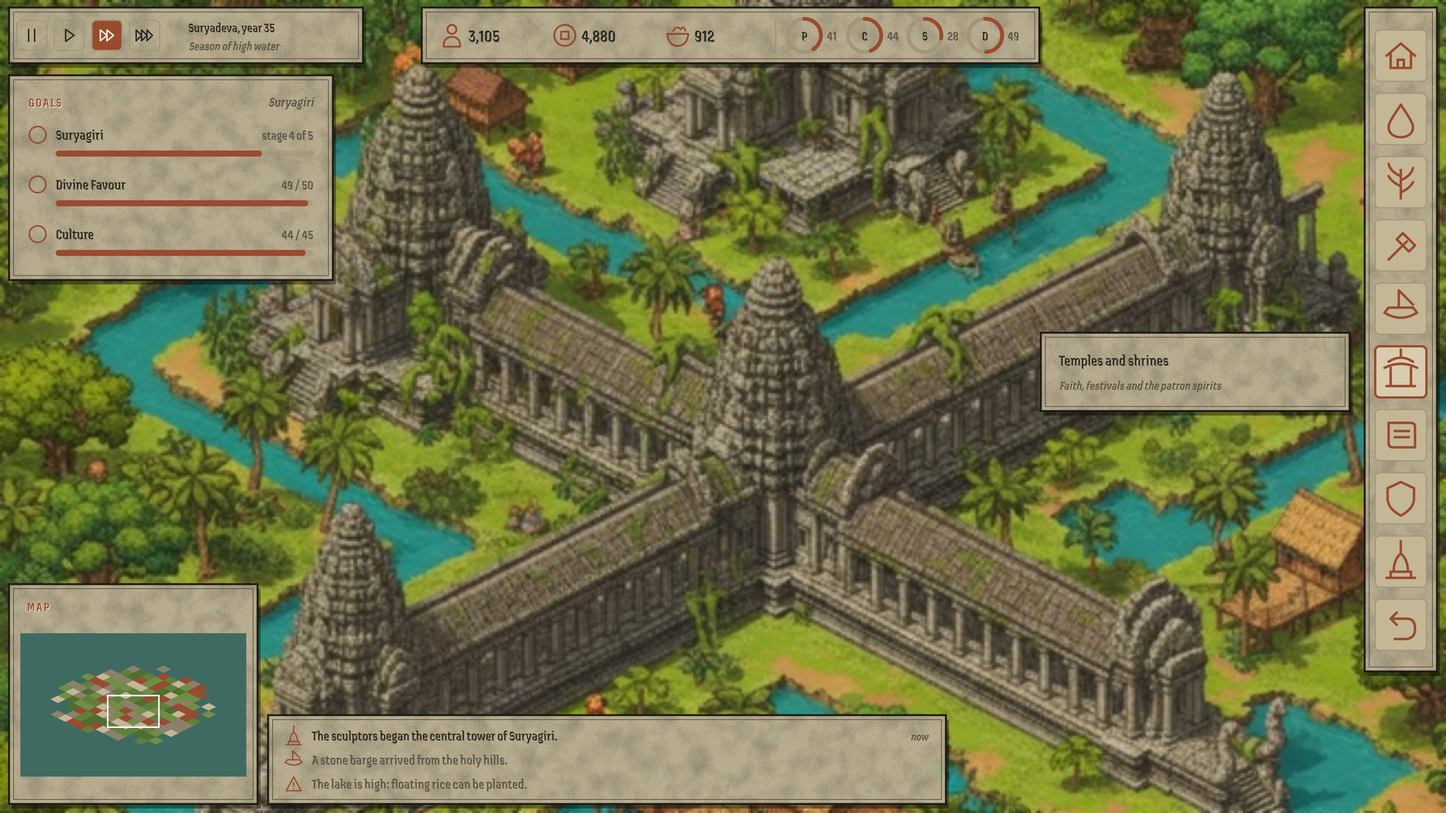
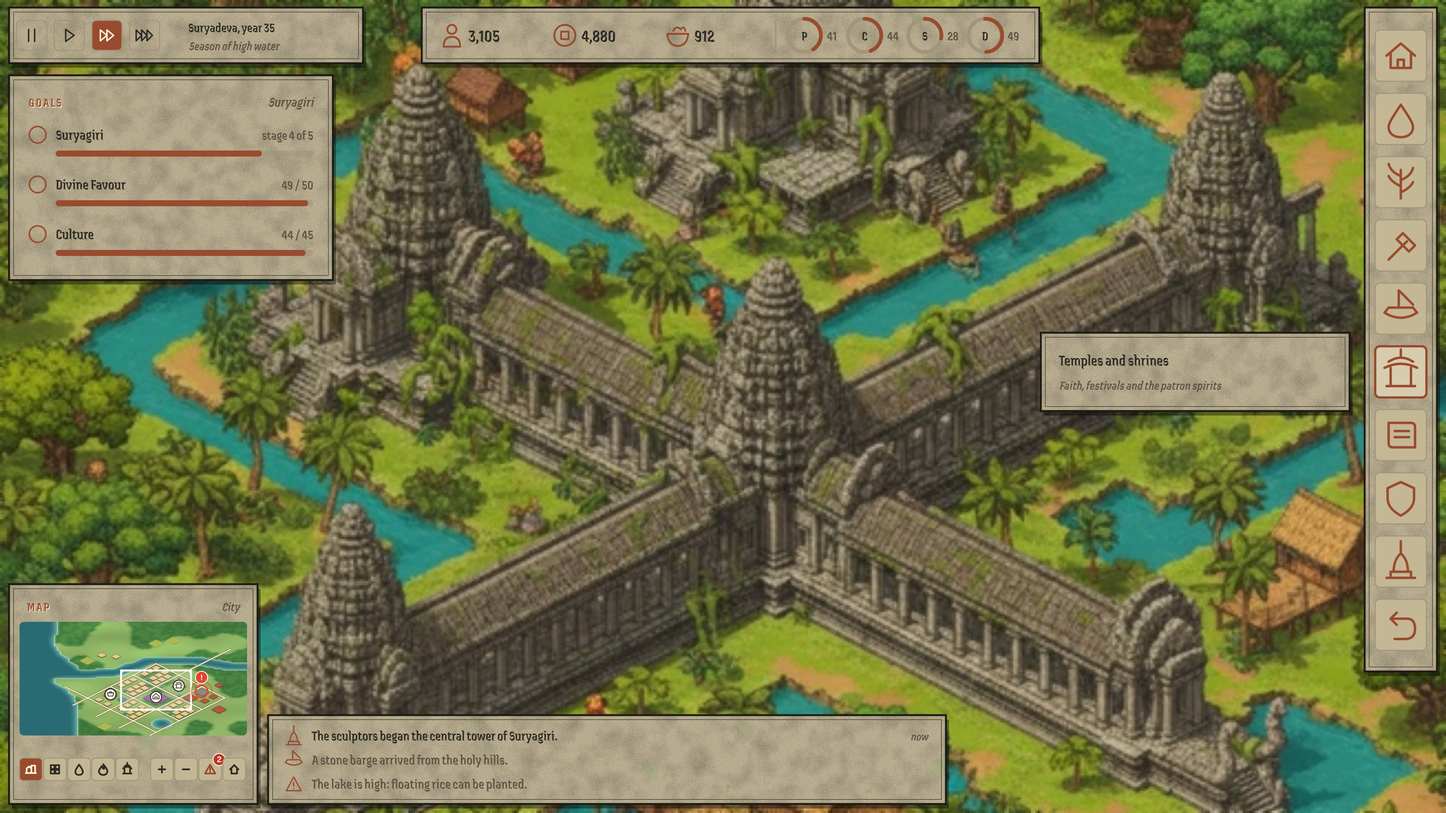
Mockups: the HUDs show the new minimap
Each realm's HUD now draws minimap concept A (the sample city from
minimap.py) in the realm's palette, with the lens and tool buttons,
instead of the old placeholder tiles. serve.py rebuilds the HUDs when
minimap.py changes.

Claude-Session: https://claude.ai/code/session_01E5PQdFiW8ubMzCiZxgcQDM

Changed region(s): [[0.0, 0.7444, 0.1875, 0.9616]]

diff --git a/docs/design/mockups/generator/minimap.py b/docs/design/mockups/generator/minimap.py
@@ -142,13 +142,14 @@ class Minimap:
     """Draws one concept into a rect: the diamond map in tile space under the
     isometric matrix, clipped to the playable rectangle."""
 
-    def __init__(self, defs):
+    def __init__(self, defs, prefix=""):
         self.defs = defs
+        self.prefix = prefix
         self.n = 0
 
     def nid(self, p):
         self.n += 1
-        return f"{p}{self.n}"
+        return f"{self.prefix}{p}{self.n}"
 
     def frame(self, x, y, w):
         """Map area at (x, y) with width w (height w / 2). Returns (open, close, to_screen)."""
@@ -178,21 +179,22 @@ class Minimap:
                     segs.append(f"M{i + .5},{j + .5}V{j + 1.5}")
         return "".join(segs)
 
-    def camera(self, to_screen, style):
+    def camera(self, to_screen, style, k=1.0):
         cx, cy = to_screen(48, 40)
-        w, h = 150, 84
+        w, h = 150 * k, 84 * k
+        t, sw = 14 * k, max(2.5, 4 * k)
         if style == "ink":
             return (f'<rect x="{f(cx - w / 2)}" y="{f(cy - h / 2)}" width="{w}" height="{h}" fill="none" stroke="#a8261c" stroke-width="3" stroke-dasharray="14 5"/>')
         return (f'<rect x="{f(cx - w / 2)}" y="{f(cy - h / 2)}" width="{w}" height="{h}" rx="5" fill="#ffffff" fill-opacity="0.12" stroke="#fffaf0" stroke-width="2.5"/>'
-                + "".join(f'<path d="M{f(px)},{f(py + dy * 14)} V{f(py)} H{f(px + dx * 14)}" fill="none" stroke="#fffaf0" stroke-width="4" stroke-linecap="round"/>'
+                + "".join(f'<path d="M{f(px)},{f(py + dy * t)} V{f(py)} H{f(px + dx * t)}" fill="none" stroke="#fffaf0" stroke-width="{f(sw)}" stroke-linecap="round"/>'
                           for px, py, dx, dy in [(cx - w / 2, cy - h / 2, 1, 1), (cx + w / 2, cy - h / 2, -1, 1), (cx - w / 2, cy + h / 2, 1, -1), (cx + w / 2, cy + h / 2, -1, -1)]))
 
-    def ping(self, to_screen, i, j, color="#e8432f"):
+    def ping(self, to_screen, i, j, color="#e8432f", k=1.0):
         x, y = to_screen(i, j)
-        return (f'<circle cx="{f(x)}" cy="{f(y)}" r="22" fill="none" stroke="{color}" stroke-width="2" opacity="0.45"/>'
-                f'<circle cx="{f(x)}" cy="{f(y)}" r="13" fill="none" stroke="{color}" stroke-width="3"/>'
-                f'<circle cx="{f(x)}" cy="{f(y - 30)}" r="13" fill="{color}" stroke="#fff" stroke-width="2"/>'
-                + T(x, y - 24.5, "!", "sans-serif", 17, "#fff", "middle", 800))
+        return (f'<circle cx="{f(x)}" cy="{f(y)}" r="{f(22 * k)}" fill="none" stroke="{color}" stroke-width="2" opacity="0.45"/>'
+                f'<circle cx="{f(x)}" cy="{f(y)}" r="{f(13 * k)}" fill="none" stroke="{color}" stroke-width="{f(max(2, 3 * k))}"/>'
+                f'<circle cx="{f(x)}" cy="{f(y - 30 * k)}" r="{f(13 * k)}" fill="{color}" stroke="#fff" stroke-width="{f(max(1.2, 2 * k))}"/>'
+                + T(x, y - 24.5 * k, "!", "sans-serif", f(17 * k), "#fff", "middle", 800))
 
     # ------------------------------------------------------------ concept 0: today
     def current(self, x, y, w):
@@ -215,8 +217,14 @@ class Minimap:
     # ------------------------------------------------------------ concept A: painted relief
     PAINT = ["#e7c98b", "#a9b85a", "#b8553f", "#5b8fc9", "#8d8a83", "#9a5aa8", "#e0a93a", "#6fbf7a"]
 
-    def painted(self, x, y, w, lens=None):
+    # Concept A's colours; a realm can override any of them (see screens.py's HUD).
+    PALETTE = dict(land_low="#a7bd72", land_high="#cdbb83", forest="#5d8c48", rocks="#a19584",
+                   shallow="#6db3c2", deep="#2f6f8c", foam="#f3f0dc", field="#b7c560", field_row="#8fa843")
+
+    def painted(self, x, y, w, lens=None, palette=None, k=1.0):
+        """Concept A. `k` scales the camera frame, pings and icons for a smaller widget."""
         c = CITY
+        pal = {**self.PALETTE, **(palette or {})}
         px = 8
         water = up(c["water"], px, 2.2)
         deep = up(c["water"], px, 9)
@@ -224,29 +232,29 @@ class Minimap:
         rocks = up(c["rocks"], px, 3)
         hgt = up(c["height"], px, 6)
         tex = up(np.random.default_rng(5).random((N, N)) > 0.5, px, 1.2)
-        land = mix(np.zeros(water.shape + (3,)) + hexrgb("#a7bd72"), "#cdbb83", np.clip((hgt - 0.35) * 1.6, 0, 1))
-        land = mix(land, "#5d8c48", np.clip(veg * 1.4, 0, 1) * (0.8 + 0.2 * tex))
-        land = mix(land, "#a19584", np.clip(rocks * 1.5, 0, 1))
+        land = mix(np.zeros(water.shape + (3,)) + hexrgb(pal["land_low"]), pal["land_high"], np.clip((hgt - 0.35) * 1.6, 0, 1))
+        land = mix(land, pal["forest"], np.clip(veg * 1.4, 0, 1) * (0.8 + 0.2 * tex))
+        land = mix(land, pal["rocks"], np.clip(rocks * 1.5, 0, 1))
         gy, gx = np.gradient(hgt)
         shade = np.clip(1 + 14 * (gx * -1 + gy * -1), 0.75, 1.2)
         land = land * shade[..., None]
-        sea = mix(np.zeros(water.shape + (3,)) + hexrgb("#6db3c2"), "#2f6f8c", np.clip((deep - 0.5) * 2.2, 0, 1))
+        sea = mix(np.zeros(water.shape + (3,)) + hexrgb(pal["shallow"]), pal["deep"], np.clip((deep - 0.5) * 2.2, 0, 1))
         img = mix(land, "#000000", np.zeros_like(water))
         img = img * (1 - water[..., None]) + sea * water[..., None]
         foam = np.exp(-((water - 0.5) / 0.09) ** 2)
-        img = mix(img, "#f3f0dc", foam * 0.85)
+        img = mix(img, pal["foam"], foam * 0.85)
         if lens:
             gray = img.mean(axis=2, keepdims=True)
             img = img * 0.35 + (gray * 0.85 + 30) * 0.65
             img = mix(img, lens["color"], lens["field"](px) * lens.get("alpha", 0.6))
         img = img.transpose(1, 0, 2)
         a, b, e, ts = self.frame(x, y, w)
-        out = [f'<rect x="{x}" y="{y}" width="{w}" height="{w / 2}" rx="6" fill="#2f6f8c"/>', a, self.image(png_uri(img))]
+        out = [f'<rect x="{x}" y="{y}" width="{w}" height="{w / 2}" rx="6" fill="{pal["deep"]}"/>', a, self.image(png_uri(img))]
         rp = self.road_paths(c["roads"])
         out.append(f'<path d="{rp}" stroke="#6b5a40" stroke-width="0.75" stroke-linecap="round" fill="none" opacity="0.8"/>'
                    f'<path d="{rp}" stroke="#f4e8c8" stroke-width="0.45" stroke-linecap="round" fill="none"/>')
         pid = self.nid("paddy")
-        self.defs.append(f'<pattern id="{pid}" width="1" height="0.6" patternUnits="userSpaceOnUse"><rect width="1" height="0.6" fill="#b7c560"/><rect width="1" height="0.22" fill="#8fa843"/></pattern>')
+        self.defs.append(f'<pattern id="{pid}" width="1" height="0.6" patternUnits="userSpaceOnUse"><rect width="1" height="0.6" fill="{pal["field"]}"/><rect width="1" height="0.22" fill="{pal["field_row"]}"/></pattern>')
         for i, j, bw, bh, sec, name in sorted(c["buildings"], key=lambda q: q[0] + q[1]):
             col = (lens["building"](sec, name, i, j) if lens else self.PAINT[sec])
             if col is None:
@@ -262,18 +270,18 @@ class Minimap:
             for i, j, bw, bh, sec, name in c["buildings"]:
                 if name in ("palace", "temple", "market"):
                     sx, sy = ts(i + bw / 2, j + bh / 2)
-                    out.append(self.landmark(sx, sy, name))
-        out.append(self.camera(ts, "modern"))
+                    out.append(self.landmark(sx, sy, name, k))
+        out.append(self.camera(ts, "modern", k))
         if not lens:
-            out.append(self.ping(ts, 56.5, 32.5))
+            out.append(self.ping(ts, 56.5, 32.5, k=k))
         out.append(e)
         return "".join(out)
 
-    def landmark(self, x, y, name):
+    def landmark(self, x, y, name, k=1.0):
         glyph = {"palace": "M-7,4 V-2 L0,-8 L7,-2 V4Z M-3,4 V0 H3 V4", "temple": "M-8,-1 Q0,-7 8,-1 M-6,-5 Q0,-10 6,-5 M-5,-1 V5 M5,-1 V5 M-7,5 H7",
                  "market": "M-7,-3 H7 L5,4 H-5Z M-4,-3 Q0,-9 4,-3"}[name]
-        return (f'<circle cx="{f(x)}" cy="{f(y)}" r="12" fill="#fffaf0" stroke="#2b2418" stroke-width="1.5"/>'
-                f'<path d="{glyph}" transform="translate({f(x)},{f(y)})" fill="none" stroke="#2b2418" stroke-width="1.6" stroke-linejoin="round" stroke-linecap="round"/>')
+        return (f'<circle cx="{f(x)}" cy="{f(y)}" r="{f(12 * k)}" fill="#fffaf0" stroke="#2b2418" stroke-width="1.5"/>'
+                f'<path d="{glyph}" transform="translate({f(x)},{f(y)}) scale({f(k)})" fill="none" stroke="#2b2418" stroke-width="1.6" stroke-linejoin="round" stroke-linecap="round"/>')
 
     # ------------------------------------------------------------ concept B: ink map
     def ink(self, x, y, w):

diff --git a/docs/design/mockups/generator/screens.py b/docs/design/mockups/generator/screens.py
@@ -10,6 +10,7 @@ import textwrap
 
 from world_map import DaiLong, Kambara, Tampadesa, T, f, FONTS_CSS, BUILD
 import screens_content as SC
+from minimap import Minimap, icon as mm_icon
 
 W, H = 1920, 1080
 
@@ -234,10 +235,13 @@ class Screens:
         # Tooltip for the hovered build button.
         ty = 40 + 5 * 84 + 34
         parts.append(self.tooltip(bx - self.tooltip_w - 20, ty - 52, self.tooltip_w, 104, "Temples and shrines", "Faith, festivals and the patron spirits"))
-        # Minimap, bottom left.
+        # Minimap, bottom left: concept A from minimap.py, in the realm's palette.
         parts.append(self.box(12, 776, 330, 292))
-        parts.append(self.minimap(177, 934, 140))
         parts.append(self.section_title(36, 812, "Map"))
+        parts.append(T(318, 812, "City", self.body_font, 17, self.panel_sub, "end", 600, style="font-style:italic"))
+        mm = Minimap(self.defs, prefix="hudmm")
+        parts.append(mm.painted(26, 826, 302, palette=self.mm_palette, k=0.62))
+        parts.append(self.minimap_tools(26, 1022, u.get("alerts", 2)))
         # Messages, bottom centre.
         mx, mw = 356, 900
         parts.append(self.box(mx, 950, mw, 118))
@@ -247,6 +251,25 @@ class Screens:
             parts.append(T(mx + 58, my, msg, self.body_font, 19, self.panel_text if k == 0 else self.panel_sub, "start", 700 if k == 0 else 600))
         parts.append(T(mx + mw - 24, 984, "now", self.body_font, 16, self.panel_sub, "end", 500, style="font-style:italic"))
         self.page(f"hud-{d['key']}", parts)
+
+    def minimap_tools(self, x, y, alerts):
+        """The minimap's toolbar, as in minimap-lenses: five lenses, then zoom, alerts and home."""
+        out = []
+        keys = ["city", "sectors", "water", "fire", "religion", None, "plus", "minus", "alert", "home"]
+        bx = x
+        for key in keys:
+            if key is None:
+                bx += 14
+                continue
+            on = key == "city"
+            cx = bx + 15
+            out.append(f'<rect x="{bx}" y="{y - 15}" width="30" height="30" rx="5" fill="{self.accent if on else self.btn_fill}" stroke="{self.panel_rule}" stroke-width="1.2"/>')
+            out.append(mm_icon(key, cx, y, 0.62, self.on_icon if on else (self.accent if key == "alert" else self.panel_text)))
+            if key == "alert" and alerts:
+                out.append(f'<circle cx="{cx + 12}" cy="{y - 13}" r="8" fill="#c4321f" stroke="#fff4dc" stroke-width="1.2"/>'
+                           + T(cx + 12, y - 9.5, str(alerts), "sans-serif", 11, "#fff", "middle", 800))
+            bx += 32
+        return "".join(out)
 
     def rating_badge(self, x, y, lab, v):
         r = 22
@@ -326,6 +349,7 @@ class DaiLongScreens(Screens, DaiLong):
     btn_fill = "#efe0b8"
     btn_fill_hover = "#f7ebcc"
     mini_water = "#6f8f92"
+    mm_palette = {}   # concept A's own colours: a green delta
     mini_colors = ["#8a9a52", "#7a8a48", "#a8261c", "#6b4426", "#c9a76a", "#5a7a3a"]
     bubble = (1010, 360, 560, (858, 610))
     stele_k = 0.42
@@ -540,6 +564,7 @@ class KambaraScreens(Screens, Kambara):
     btn_fill = "#c4b796"
     btn_fill_hover = "#d8ccae"
     mini_water = "#3f6a62"
+    mm_palette = dict(land_low="#8fb565", land_high="#a9b874", forest="#3f7a3c", shallow="#5fb0ae", deep="#2a6a72")   # lush lake country
     mini_colors = ["#6f8f44", "#5f7f3a", "#8d8169", "#9a4a2e", "#c4b696", "#4f6f30"]
     caption_pos = (110, 92)
     bubble = (1150, 404, 660, (1786, 720))
@@ -733,6 +758,8 @@ class TampadesaScreens(Screens, Tampadesa):
     btn_fill = "#e8cfa0"
     btn_fill_hover = "#f6e3b8"
     mini_water = "#6f8f86"
+    mm_palette = dict(land_low="#cdb27a", land_high="#dcc28c", forest="#7f9a4e", rocks="#b0906a", shallow="#79aeb0", deep="#3b7882",
+                      field="#c9c46a", field_row="#a3a64a")   # dry plain
     mini_colors = ["#d8b47a", "#c99a55", "#9b4527", "#8a6418", "#7a8a48", "#e3bf86"]
     caption_pos = (110, 742)
     bubble = (900, 84, 560, (1585, 236))

diff --git a/docs/design/mockups/generator/serve.py b/docs/design/mockups/generator/serve.py
@@ -49,7 +49,7 @@ AFFECTS = {
     "screens_content.py": ["screens"],
     "menus.py": ["menus"],
     "menus_content.py": ["menus"],
-    "minimap.py": ["minimap"],
+    "minimap.py": ["minimap", "screens", "menus"],
 }
 
 

diff --git a/docs/design/mockups/README.md b/docs/design/mockups/README.md
@@ -36,7 +36,7 @@ The debrief after a mission (gdd.md 4, *Mission flow*), shown after mission 5 of
 
 ## In-game HUD
 
-The minimal HUD of gdd.md 10 over a city: speed and date, population, treasury, food and the four ratings, the goals tracker, the build bar with a tooltip, the minimap and the message log. Đại Long uses parchment and wood, Kambara mossy sandstone, Tampadesa earthen brown with gilt trim.
+The minimal HUD of gdd.md 10 over a city: speed and date, population, treasury, food and the four ratings, the goals tracker, the build bar with a tooltip, the minimap and the message log. The minimap is the [minimap concept](#minimap) A drawn by `minimap.py` (the sample city, in each realm's palette) with its lens and tool buttons. Đại Long uses parchment and wood, Kambara mossy sandstone, Tampadesa earthen brown with gilt trim.
 
 | Realm | Image |
 |---|---|
